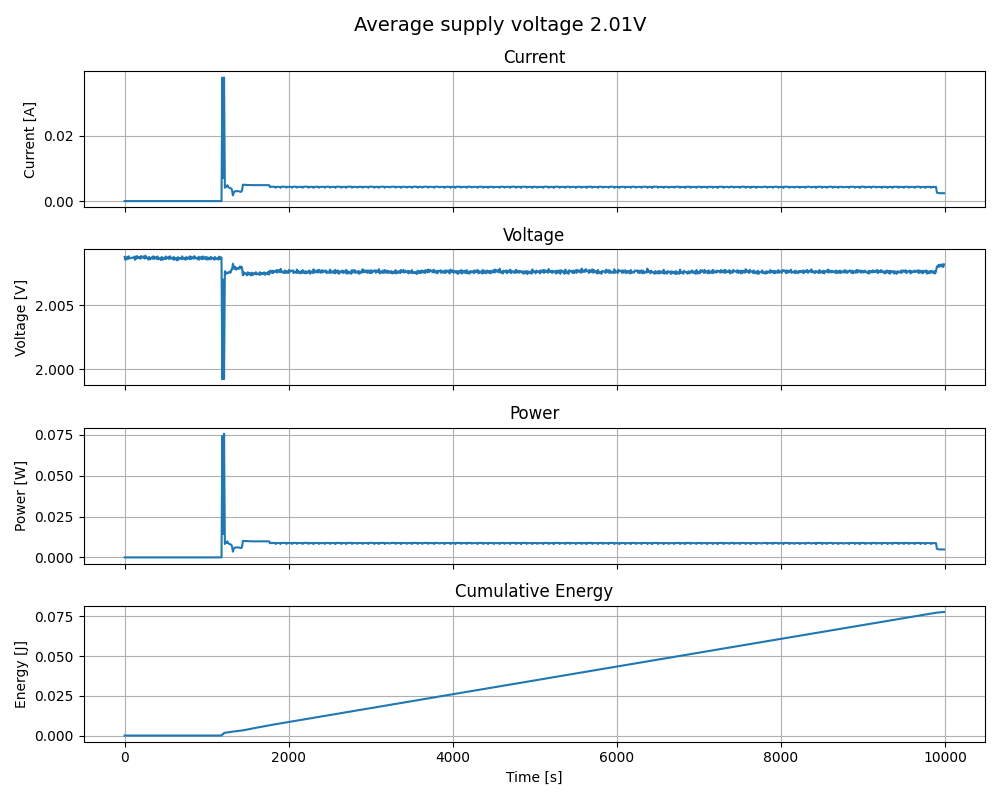
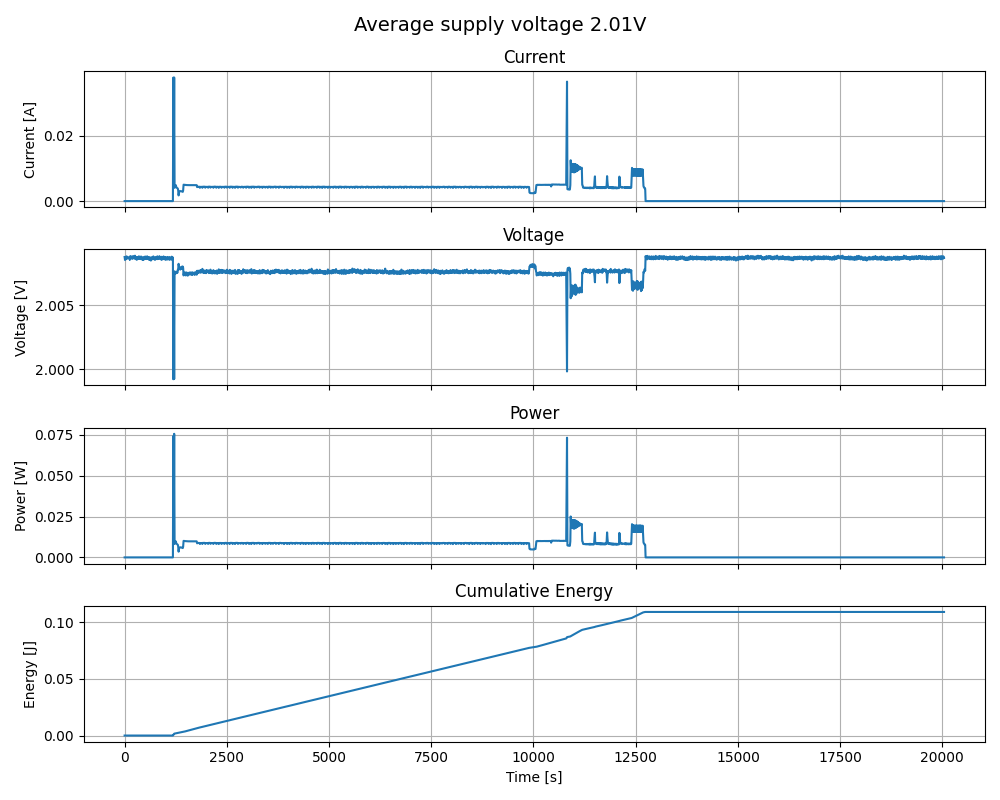
update

diff --git a/measurements/04_pixels-energy_measurment/plot-all.py b/measurements/04_pixels-energy_measurment/plot-all.py
@@ -13,7 +13,7 @@ for csv_file in csv_files:
 
     timestamp = int(csv_file.stem.split("_")[0])
 
-    df = df[0:1000]
+    # df = df[0:1000]
    
     t = df["timestamp"] - df["timestamp"].iloc[0]
     df["energy_cumulative_J"] = df["energy_J"].cumsum()
